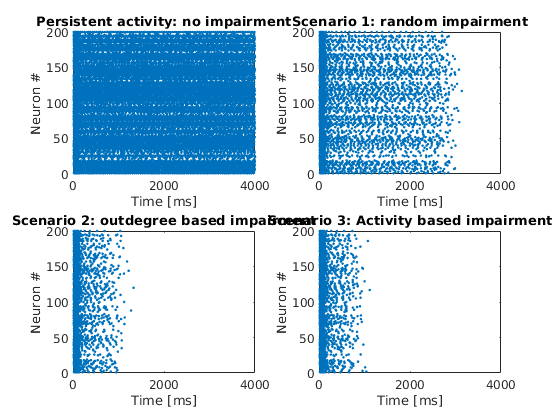
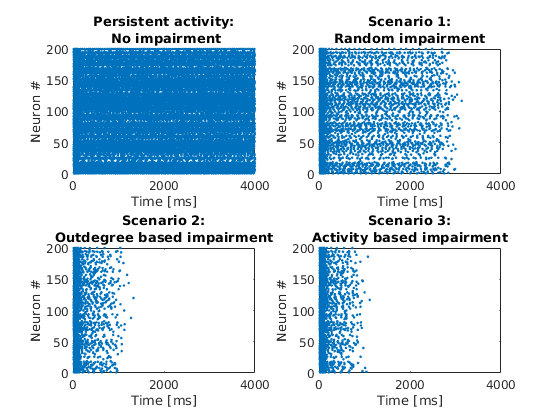
Updated figure formatting by Bogdan Epureanu

Changed region(s): [[0.0304, 0.031, 0.9411, 0.4333], [0.0304, 0.4952, 1.0, 0.8976]]

diff --git a/readme.html b/readme.html
@@ -13,5 +13,5 @@ figure 4 in the paper are generated:
 </p>
 <p><img src="./screenshot.png" alt="screenshot">
 </p>
-
+<p> 20200514 Updated figure format from Bogdan Epureanu.</p>
 </html>

diff --git a/Results.m b/Results.m
@@ -72,19 +72,19 @@ Spikes3=Raster(V3,T3,Vth);
 subplot(2,2,1);plot(SpikesO(:,1),SpikesO(:,2),'.');
 xlabel('Time [ms]');ylabel('Neuron #');
 xlim([0,4000]);
-title('Persistent activity: no impairment')
+title({'Persistent activity:',' No impairment'})
 %
 subplot(2,2,2);plot(Spikes1(:,1),Spikes1(:,2),'.');
 xlabel('Time [ms]');ylabel('Neuron #');
-title('Scenario 1: random impairment')
+title({'Scenario 1:', 'Random impairment'})
 xlim([0,4000]);
 %
 subplot(2,2,3);plot(Spikes2(:,1),Spikes2(:,2),'.');
 xlabel('Time [ms]');ylabel('Neuron #');
-title('Scenario 2: outdegree based impairment')
+title({'Scenario 2:', 'Outdegree based impairment'})
 xlim([0,4000]);
 %
 subplot(2,2,4);plot(Spikes3(:,1),Spikes3(:,2),'.');
 xlabel('Time [ms]');ylabel('Neuron #');
-title('Scenario 3: Activity based impairment')
+title({'Scenario 3:', 'Activity based impairment'})
 xlim([0,4000]);
